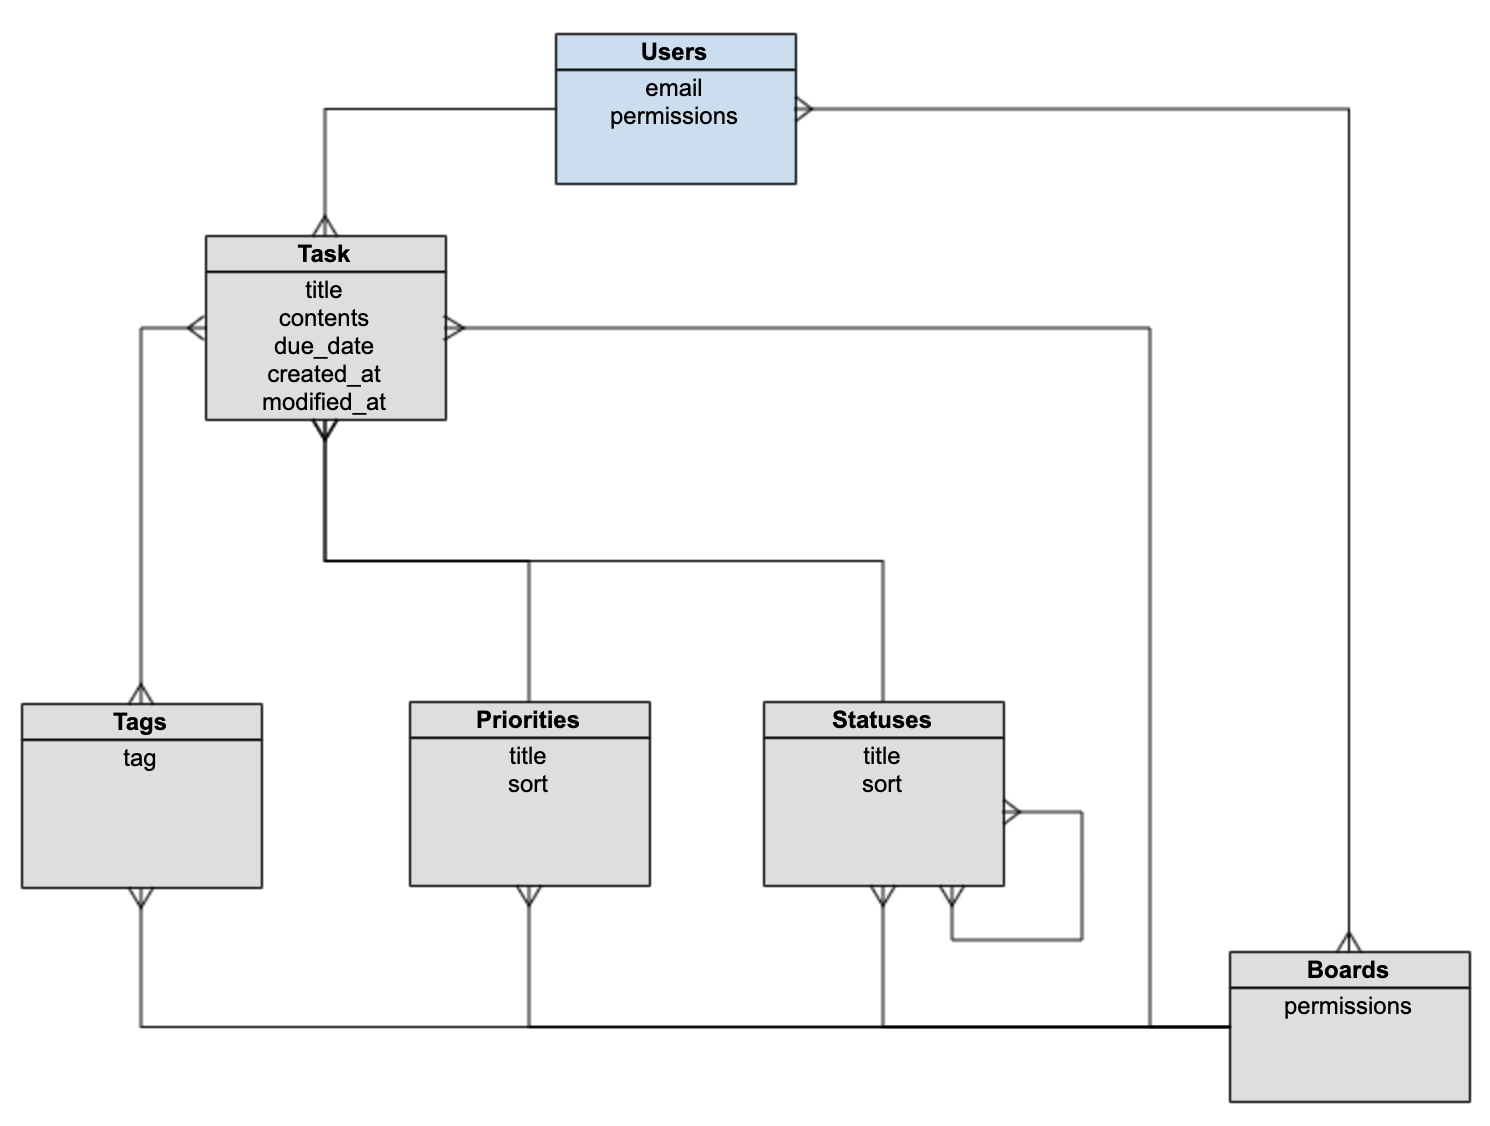
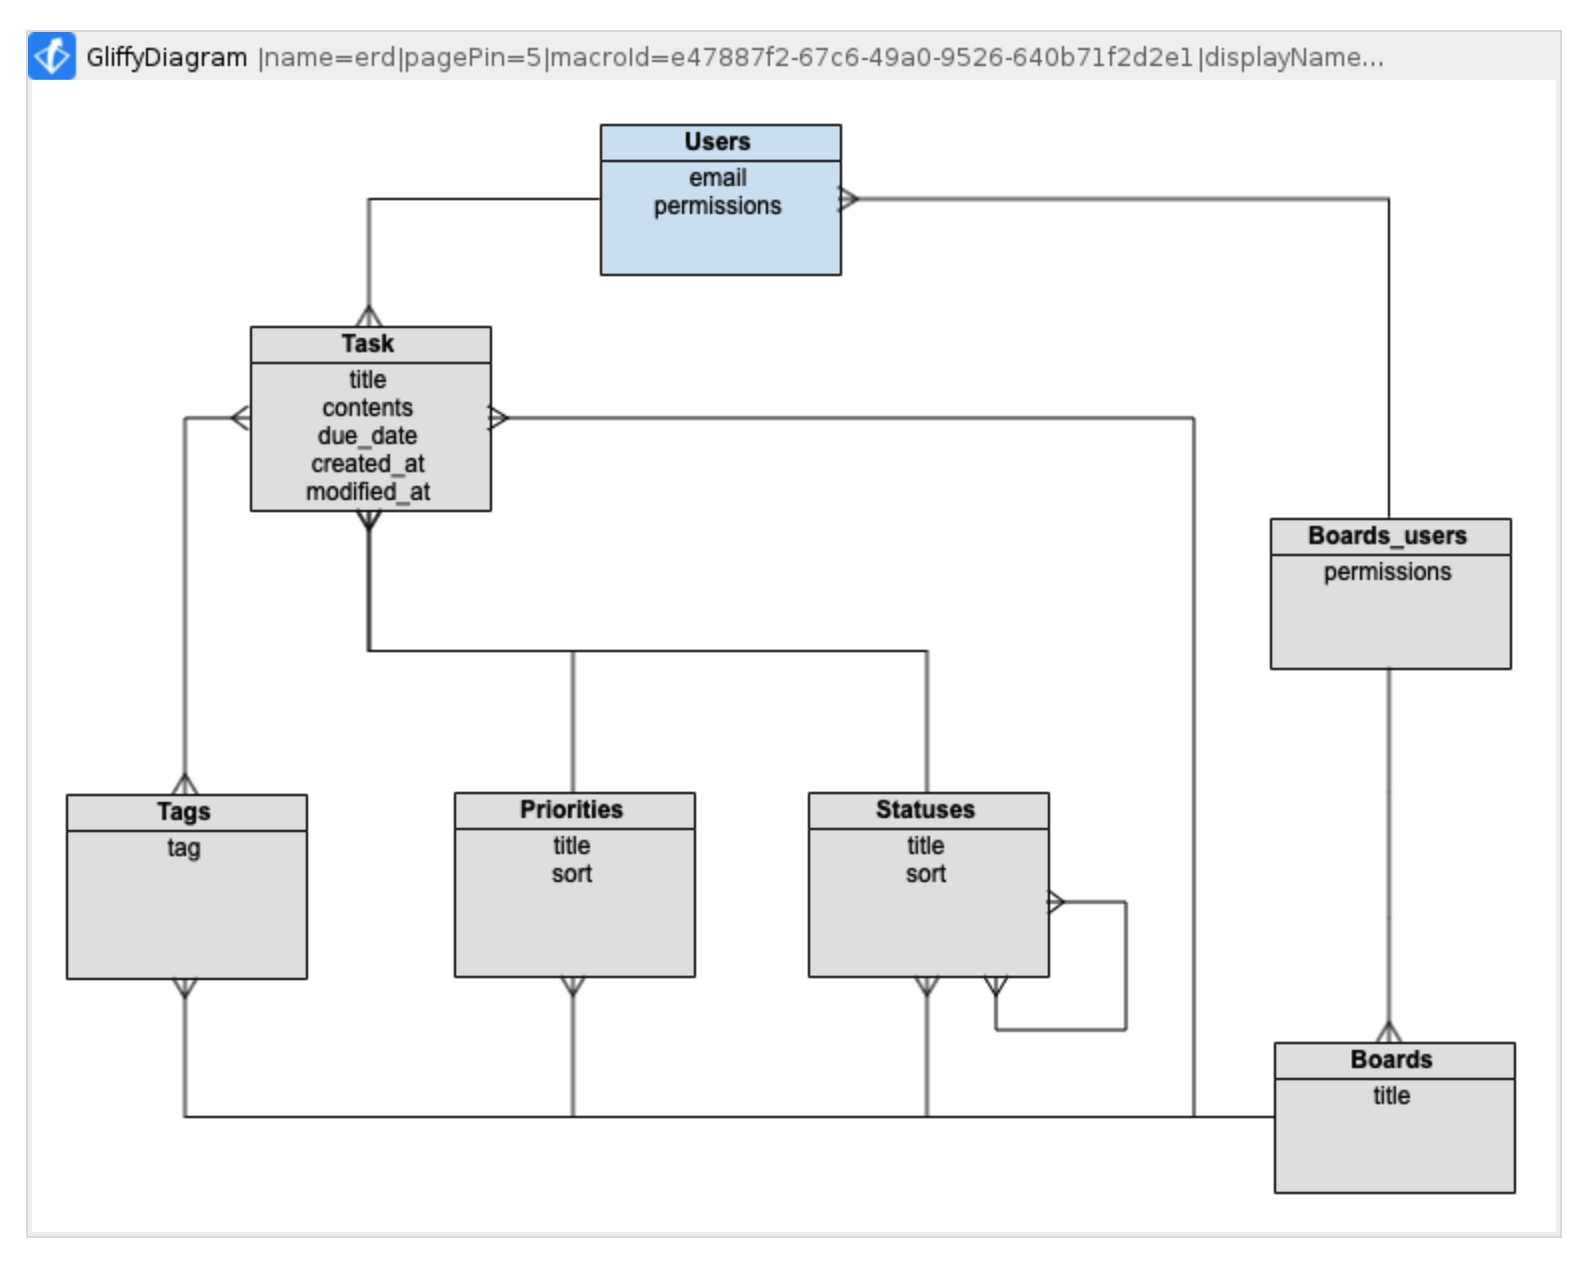
[RB]
update erd
add table description for boards
add column description for board_id
fix typo (PK on title, sort @priorities)

Changed region(s): [[0.0, 0.0, 0.9879, 0.9947], [0.8644, 0.1554, 0.8953, 0.1865]]

diff --git a/myapp/README.md b/myapp/README.md
@@ -12,7 +12,7 @@
 * index: [email]
 
 ### boards
-* Board information
+* Board information. Board consists 1 kanban board and contains one or more tasks 
 
 | Column      | Type         | Not Null? | PK | default        | description |
 |-------------|--------------|--- | --- |----------------|-------------|
@@ -49,12 +49,12 @@
 ### priorities
 * Priority list
 
-| Column      | Type         | Not Null? | PK | default        | description |
-  |-------------|--------------|--- | --- |----------------|-------------|
+| Column      | Type         | Not Null? | PK | default        | description                              |
+  |-------------|--------------|--- | --- |------------------------------------------|-------------|
 | id          | int          | O | O | auto-increment |
-| board_id       | int | O | |||
-| title       | varchar(32) | O | O |||
-| sort       | int | O | O |||
+| board_id | int | O | | | board id that this priority is available |
+| title       | varchar(32) | O |  |||
+| sort       | int | O |  |||
 
 * index: [board_id]
 
@@ -66,15 +66,17 @@
 | from_status_id          | int          | O | O |  |
 | to_status_id       | int | O | O |||
 
+* since from_status_id, to_status_id will be PK, there is no id(auto-increment) column
+
 ### statuses
 * Status list
 
-| Column      | Type         | Not Null? | PK | default        | description |
-  |-------------|--------------|--- | --- |----------------|-------------|
-| id          | int          | O | O | auto-increment |
-| board_id       | int | O | |||
-| title       | varchar(32) | O |  |||
-| sort       | int | O |  |||
+| Column   | Type         | Not Null? | PK | default                                | description |
+|----------|-------------|--------------|--- |----------------------------------------|----------------|
+| id       | int          | O | O | auto-increment                         |
+| board_id | int | O | | | board id that this status is available |
+| title    | varchar(32) | O |  |||
+| sort     | int | O |  |||
 
 * index: [board_id]
 
@@ -85,6 +87,7 @@
     |-------------|--------------|--- | --- |----------------|-------------|
   | tag_id          | int          | O | O |  |
   | task_id       | int | O | O |||
+* since tag_id, task_id will be PK, there is no id(auto-increment) column
 
 ### tags
 * tag list
